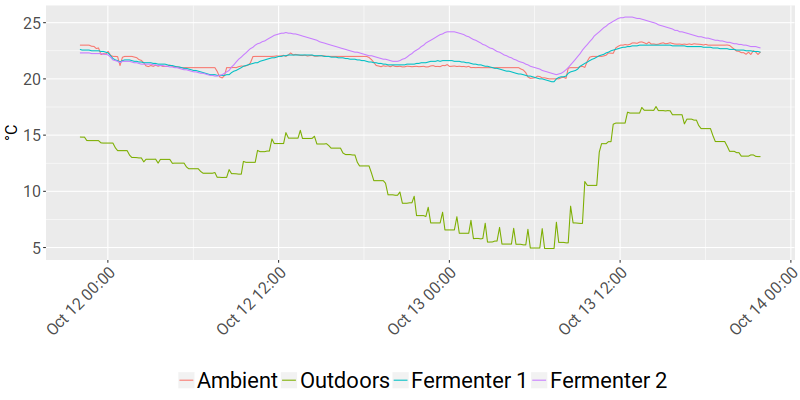
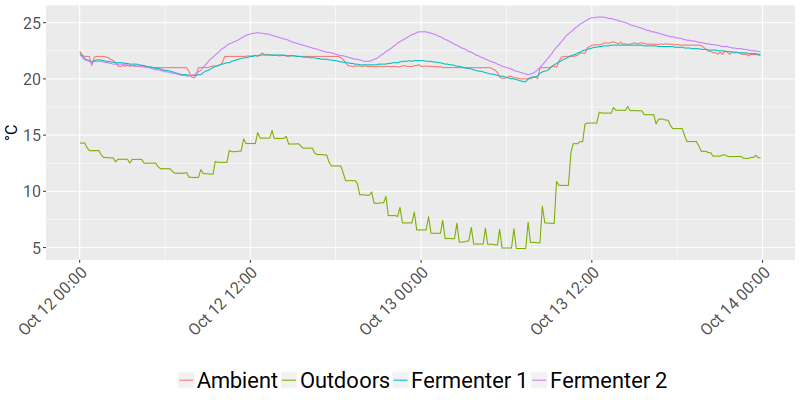
Update live temperature on site

diff --git a/temperature.js b/temperature.js
@@ -1,1 +1,1 @@
-document.write("<h4>Inside Temperature: 22.39°C</h4><h4>Outside Temperature: 13.09°C</h4><h4>Fermenter 1 Temperature: 22.38°C</h4><h4>Fermenter 2 Temperature: 22.75°C</h4><h4>Inside Humidity: 45.87%</h4><h4>Outside Humidity: 88.0%</h4><br>Last update: 2017-10-13 21:51:55");
+document.write("<h4>Inside Temperature: 22.03°C</h4><h4>Outside Temperature: 12.99°C</h4><h4>Fermenter 1 Temperature: 22.19°C</h4><h4>Fermenter 2 Temperature: 22.44°C</h4><h4>Inside Humidity: 46.58%</h4><h4>Outside Humidity: 89.0%</h4><br>Last update: 2017-10-13 23:51:22");
